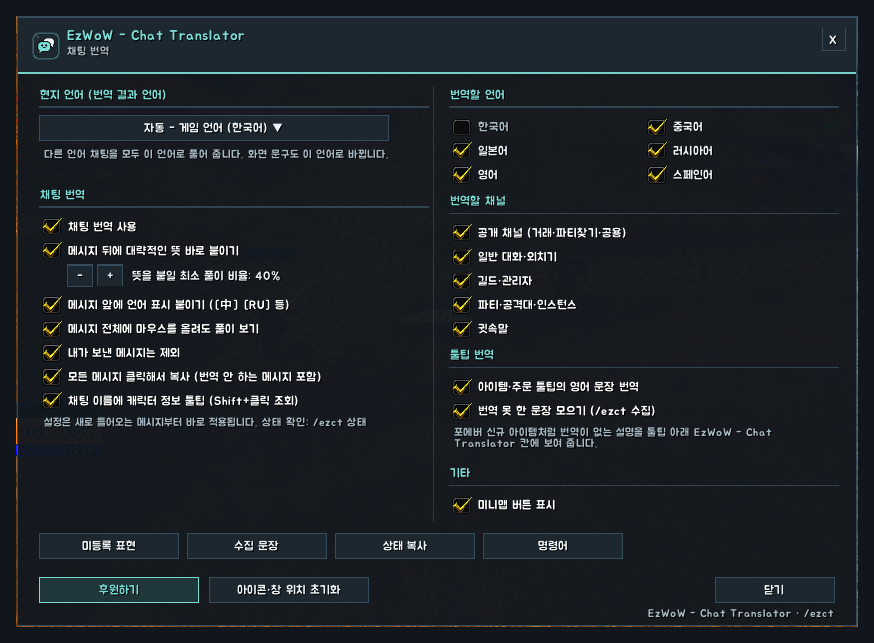
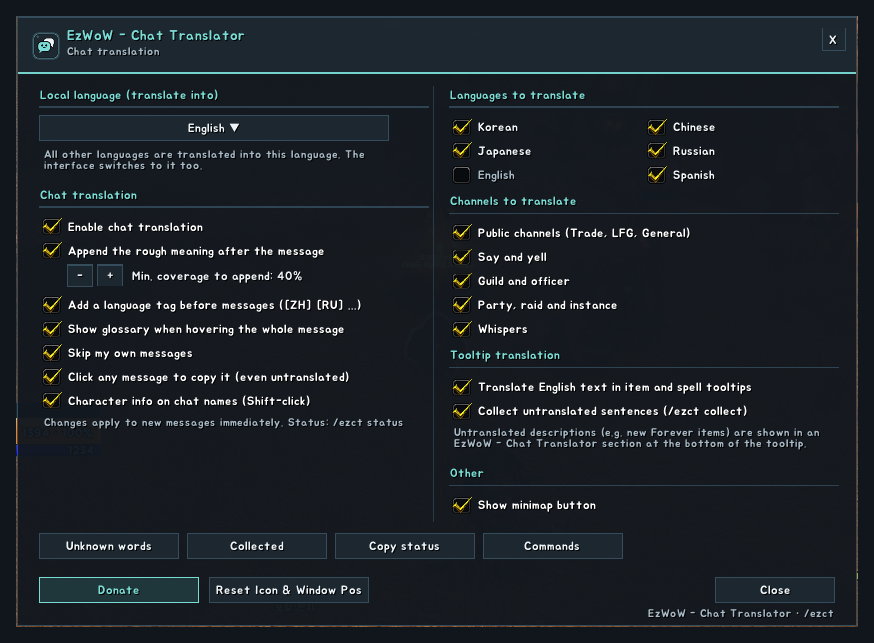
영어 설명용 게임 화면 추가

diff --git a/docs/curseforge_description.md b/docs/curseforge_description.md
@@ -11,7 +11,7 @@ A real-time dictionary translator for WoW Forever. Foreign chat gets a language 
 
 ![Settings window](https://raw.githubusercontent.com/qqhrqqhr2/EzWoW-ChatTranslator/master/docs/images/ui_en.png)
 
-*In-game screenshots (WoW Forever, Korean client). Character and player names and chat text are blurred.*
+*In-game screenshots with the addon set to English. The game client is Korean, so game text such as zone, item and spell names stays Korean. Character and player names and chat text are blurred.*
 
 ## Features
 

diff --git a/README.md b/README.md
@@ -126,7 +126,7 @@ Chat Translator adds a **language tag and a rough meaning** to foreign-language 
 
 ![Settings window](docs/images/ui_en.png)
 
-> In-game screenshots (WoW Forever, Korean client). Character and player names and chat text are blurred.
+> In-game screenshots with the addon set to English. The game client is Korean, so game text such as zone, item and spell names stays Korean. Character and player names and chat text are blurred.
 
 ### Installation
 
